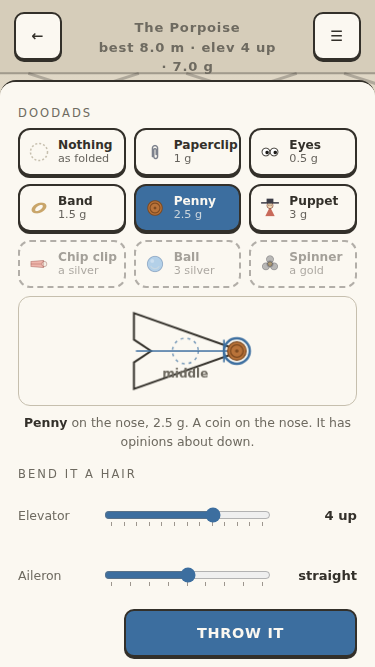
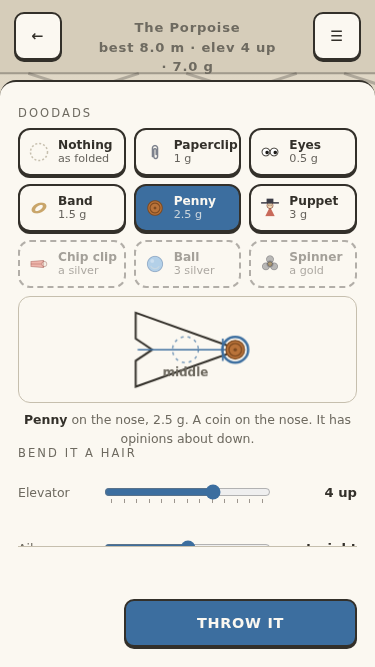
Airworthy review: the doodads shelf passes, and two things no gate could see
The builder's work checked with evidence: the paperclip's numbers unchanged
(sim asserted, medals read only matched the file), every doodad flown again
against its line (sim.js --doodads line for line, four --fly runs of my own),
the spinner a brick and the base plane medalling (two sim mutations watched
red in scratch copies: a flying spinner 7 red, a 30 m bronze 2 red), every
spec writer carrying the field, the shelf at 375x667 by my own elementFromPoint
probe (nine chips 108x48, all hit, corner and top band empty, THROW IT at
124), stamp c in six places, dupkeys 0, copy law clean, fence clean, eleven
gates green on the committed file, all five shots opened.

Fixed, stamp 20260908d: the where canvas painted a 340 px bitmap into its 360
px box on every open (renderDoodads ran before the sheet was shown; the sheet
goes on first now, probe 360x110 one frame after opening). The Aileron dial
sat in the music chip's 120 by 120 with the sheet up at every portrait size
while the corner scan read buttons only; a margin could not cure a sheet that
scrolls, so the trim sheet is a scrolling column under a rail and THROW IT is
a footer that does not scroll, with 52 px of air above it (52 + 48 + 20 = the
120). The scan I wrote first read rects and lied about clipped rows; the
corner scan is now elementFromPoint on an 8 px grid, any control or caption a
hit. Watched red twice (the footer absent, then its air planted 52 to 8
[…]

diff --git a/satellites/airworthy/index.html b/satellites/airworthy/index.html
@@ -9,9 +9,9 @@
 <meta name="apple-mobile-web-app-capable" content="yes">
 <meta name="apple-mobile-web-app-status-bar-style" content="black-translucent">
 <meta name="apple-mobile-web-app-title" content="AIRWORTHY">
-<link rel="manifest" href="./manifest.webmanifest?v=20260908c">
-<link rel="apple-touch-icon" href="./icon-192.png?v=20260908c">
-<link rel="icon" href="./icon-192.png?v=20260908c">
+<link rel="manifest" href="./manifest.webmanifest?v=20260908d">
+<link rel="apple-touch-icon" href="./icon-192.png?v=20260908d">
+<link rel="icon" href="./icon-192.png?v=20260908d">
 <link rel="canonical" href="https://lucidwinds.com/satellites/airworthy/">
 <style>
 /*  AIRWORTHY
@@ -198,7 +198,19 @@ html,body{margin:0;padding:0;height:100%;background:var(--paper);color:var(--ink
    the sheet's padding is 18, so the music chip's bottom left 120 by 120 holds
    nothing of ours. NONE sat in that corner from the day the paperclip row was
    built and no gate looked at the trim sheet's corner until 2026-09-08. */
-@media (orientation:portrait){#btnTrimDone{margin-left:106px}}
+/* ⛔ and the bottom 120 px of the sheet in portrait hold THROW IT and NOTHING
+   ELSE. With the shelf on it the sheet scrolls at 375x667 and 320x568, and a
+   scrolling row passes through the music chip's corner whatever margin sits
+   under it: the Aileron row's label and the left end of its slider were in the
+   corner at every portrait size while the corner scan read buttons only (the
+   reviewer's probe, 2026-09-08). So the column scrolls and THROW IT is a footer
+   that does not, 52 px of air above it: 52 + 48 + the sheet's 20 = the 120. */
+#scrTrim{overflow:hidden}
+/* a hairline on the column's edge, so a row clipped there reads as a row that
+   scrolls under a rail and not as a row cut in half (the 375 shot, 2026-09-08) */
+#trimScroll{flex:0 1 auto;min-height:0;overflow-y:auto;overscroll-behavior:contain;border-bottom:1px solid var(--line);padding-bottom:6px}
+#trimFoot{flex:0 0 auto;margin-top:8px}
+@media (orientation:portrait){#btnTrimDone{margin-left:106px}#trimFoot{margin-top:52px}}
 
 /* the hangar */
 /* the tunnel: the chamber is the canvas, the slate and the dials sit under it */
@@ -293,7 +305,7 @@ body.listing #toast{top:calc(72px + var(--safeT));bottom:auto}
 #testPanel.on{display:block}
 @media (prefers-reduced-motion:reduce){*{transition-duration:1ms!important}}
 </style>
-<script src="/music-unlocks.js?v=20260908c" defer></script>
+<script src="/music-unlocks.js?v=20260908d" defer></script>
 </head>
 <body>
 <h1 style="position:absolute;width:1px;height:1px;margin:-1px;padding:0;overflow:hidden;clip:rect(0 0 0 0);clip-path:inset(50%);white-space:nowrap;border:0">AIRWORTHY</h1>
@@ -325,7 +337,7 @@ body.listing #toast{top:calc(72px + var(--safeT));bottom:auto}
   </div>
 
   <div class="sheet" id="scrTrim">
-    <div class="col">
+    <div class="col" id="trimScroll">
       <div class="cap">Doodads</div>
       <div id="doodadShelf"></div>
       <canvas id="doodadWhere" width="720" height="220" aria-label="Where it goes on the plane"></canvas>
@@ -344,6 +356,11 @@ body.listing #toast{top:calc(72px + var(--safeT));bottom:auto}
         <option value="6"></option><option value="8"></option><option value="10"></option>
         <option value="12"></option>
       </datalist>
+    </div>
+    <!-- THROW IT is a FOOTER, not the last row of the scroll: the sheet is the
+         first in the game tall enough to scroll on a phone, and a scrolling row
+         passes through the music chip's corner whatever margin it carries -->
+    <div class="col" id="trimFoot">
       <button class="btn go" id="btnTrimDone">THROW IT</button>
     </div>
   </div>
@@ -4259,7 +4276,7 @@ function toTunnel() {
 }
 
 /* ========================= 17. THE FIELD ========================= */
-var STAMP = '20260908c';
+var STAMP = '20260908d';
 var G = {
   screen: 'title', spec: null, res: null, live: null, liveT: 0, flying: false,
   trail: [], ghost: null, best: null, lastClass: null, throws: 0,
@@ -4817,8 +4834,12 @@ function bindInput() {
     el('dialAil').value = G.spec.ail;
     el('valElev').textContent = trimWord(G.spec.elev);
     el('valAil').textContent = ailWord(G.spec.ail);
-    renderDoodads();
+    /* the sheet goes ON before the shelf is drawn: .sheet is display:none when
+       off, so the where canvas read a 0 px box, fell back to 340 and was
+       stretched to its 360 px box until the first tap repainted it (measured
+       2026-09-08 by the reviewer, bitmap 340x110 in a 360x110 box at 412x915) */
     el('scrTrim').classList.add('on');
+    renderDoodads();
   });
   el('btnTrimDone').addEventListener('click', function () {
     el('scrTrim').classList.remove('on');

diff --git a/satellites/airworthy/sw.js b/satellites/airworthy/sw.js
@@ -12,7 +12,7 @@
    Bump SHELL_VERSION on every deploy, AND the ?v= on the registration in
    index.html in lockstep — this host edge-pins bare sw.js URLs for 7 days. */
 
-const SHELL_VERSION = "airworthy-shell-20260908c";
+const SHELL_VERSION = "airworthy-shell-20260908d";
 const SFX_CACHE     = "airworthy-unused-v1"; // no recorded audio: every sound is synthesised
 const NAV_TIMEOUT_MS = 8000;
 

diff --git a/plans/airworthy/HANDOFF-AIRWORTHY.md b/plans/airworthy/HANDOFF-AIRWORTHY.md
@@ -11,6 +11,61 @@ this file wins; every difference is in section 3 with its reason.
 
 ## SESSION STATE (the builder updates this at the end of every session; the morning reader starts here)
 
+- 2026-09-08 (UTC), Fable's reviewer (of the doodads build below): **FIXED AND PASS, stamp `20260908d`** in all
+  six places (four head `?v=`, `var STAMP`, `sw.js`). **Checked with evidence:** the paperclip's numbers are
+  unchanged (`DOODADS[0]` is 0.001 kg, cg 0.10, Cm 0.028 at the nose and a gram alone in the middle; the sim
+  asserts it; `--medals` read only matched the file and `git status` was clean after it); every doodad does
+  in the sim what its line says (`node sim.js --doodads` reran line for line against the table below; my own
+  `--fly` runs: penny on the starter's nose 12.00 m Cruiser, chip clip on the Dart's tail 13.68 m two stalls
+  Tumbler, the ball bounces at 5.49 m and lands at 8.11 m, the Brick 1.47 m folded at 2.36 m/s); the spinner
+  is a brick and the base plane still medals (`sim` 228 green; **mutation A** `PAPER_HOLD.wing` 0.25 to 25
+  with the spinner at 5 g, in a scratch copy: 7 red, the fixture a cruiser at 4.76 m leaving at 7.50 m/s with
+  1.15 of its weight in lift, bank flights medalling on gym-desk, yard-far and yard-pool, the furthest 9.58 m;
+  **mutation B** gym-far bronze 10 to 30: 2 red, "18.90 against 30"; the live file untouched, md5 92fb1721d4c3
+  both times); every writer of a spec carries the field (`newSpec` default, `cloneSpec` whitelist under both
+  hangar writers, `loadSave` backfill, `unpackSpec` ten bytes; no other literal builds a spec); the shelf at
+  375x667 by my own elementFromPoint probe: nine chips 108x48, each hit at its centre, minimum font 11.2 px,
+  none in the corner or the top band, THROW IT left edge 124 and 48 px tall; stamp `c` in all six places;
+  `dupkeys` 0 in 349 literals (the tool is `/workspaces/lucid-winds/tools/dupkeys.mjs`, fleet wide, there is
+  no copy in this game's tools); copy law clean on every new string; both commits touch only
+  `satellites/airworthy/` and this plan; `tools/check.js` under the lock on the committed file: ALL GATES
+  PASSED, eleven of eleven. **All five shots opened**: the 375 shelf, the 412 shelf, the flight contact sheet
+  (penny, ball, chip clip and spinner read; eyes and band are specks), the ball card ("Down at 5.5 m, up, and
+  down again at 8.1 m"), the Brick card (the folded line and the badge line).
+  **Two things no gate could see, both measured, both fixed:**
+  (1) The where canvas painted at a 340x110 bitmap in a 360x110 box on every open at 412x915 (a six percent
+  stretch until the first tap repainted it): `renderDoodads()` ran before the sheet had `.on`, and `.sheet` is
+  `display:none` when off, so the canvas read a 0 px box and took its 340 fallback. The sheet goes on first
+  now; the probe reads 360x110 one frame after opening.
+  (2) **The Aileron dial sat in the music chip's 120 by 120 with the sheet up at every portrait size** (its
+  label at x 18, the left end of its slider at 104): the shelf pushed the dials down into the corner band,
+  and the layout gate's corner scan read `button` elements only, so a range input and a label were invisible
+  to it while the builder's comment said the corner "holds nothing of ours". The chip's own 97x48 footprint
+  was clear, so nothing was covered, but the reserve is the law. A margin under THROW IT fixed 412 alone: at
+  375x667 and 320x568 the sheet scrolls, and a scrolling row passes through the corner whatever margin sits
+  under it. So the trim sheet is now a scrolling column (`#trimScroll`, a hairline on its edge so a clipped
+  row reads as a row under a rail) and a footer that does not scroll (`#trimFoot`, THROW IT with 52 px of air
+  above it in portrait: 52 + 48 + the sheet's 20 = the 120), and THROW IT no longer needs a scroll to reach at
+  375 or 320. ⛔ **The scan I wrote first lied too:** reading every control's `getBoundingClientRect` ignores
+  clipping, so a dial row scrolled out of the column and invisible still reported a rect in the corner (red
+  at 375 and 320 with the footer in place). The corner scan is now `elementFromPoint` on an 8 px grid over
+  the 120 by 120, a hit being any control or caption of ours: what is under the point is the law. **Watched
+  red:** the widened rect scan with the footer absent, 3 red (375 "lbl at 18, dialAil at 104", 320 the where
+  canvas, the line, a cap and both dials, 412 "lbl at 26, dialAil at 112"); the point scan with the footer's
+  air planted 52 to 8 inside the lock, 3 red (375 "lbl at 20,559, dialAil at 108,551", 320 "doodadWhere at
+  20,452", 412 "lbl at 28,807, dialAil at 116,799"), the file restored byte for byte both times, green at all
+  five sizes with the footer. **Reshot and opened again** (`p6-doodads-375`, `p6-doodads-412`): at 375 the
+  column clips the Aileron row under the rail and THROW IT sits below the air, the corner empty; at 412
+  everything fits with the air above THROW IT; the "middle" label still crosses the plane's body.
+    **Gates on the file as committed** (`timeout 900 flock -w 1800 /tmp/sws-gate.lock node tools/check.js`,
+  md5 a206ac5129ed): ALL GATES PASSED, eleven of eleven (sim 228, lint, throw, fold, doodads, tunnel,
+  challenge, sound, audio, play, layout with the point scan at five sizes); `dupkeys` 0 across the fleet.
+  **Left as calls, seen and not changed:** the "middle" ring label across the plane's body; the HUD's three
+  line wrap at 375; the terse locked subtitles; the sheet covering the field while trimming; the badge is one
+  line once and a flag in `SAVE.seen.badges.brick`, drawn nowhere; the 52 px of air above THROW IT is the
+  chip's lane and could become a taller button if he prefers; the Aileron dial needs a scroll at 375 and
+  320 now that THROW IT does not. **Not done:** the portal row's `?v=` (outside the fence); nothing deployed
+  and the served page not grepped; nobody has phoned it; the builder's first green B6 run stays unexplained.
 - 2026-09-08 (UTC), Fable's builder: **DONE, THE DOODADS SHELF (docs/GEAR-DOODADS-SEP08.md, Airworthy
   section). Stamp `20260908c`** in all six places (four head `?v=`, `var STAMP`, `sw.js`). Stephen's
   "different fun equipment things that you can like attach to your airplane ... a fidget spinner would just
